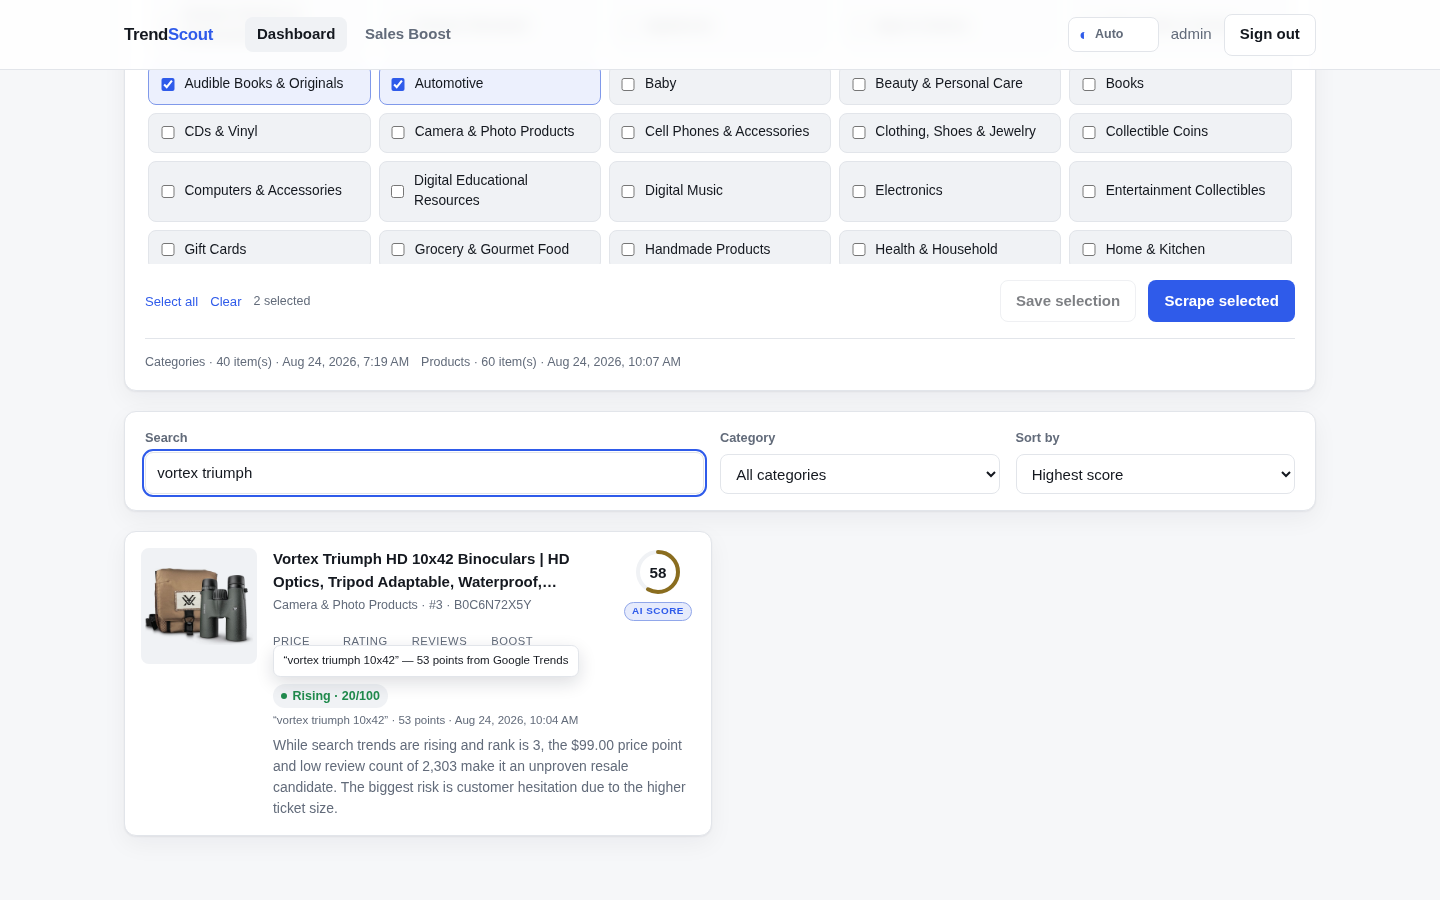
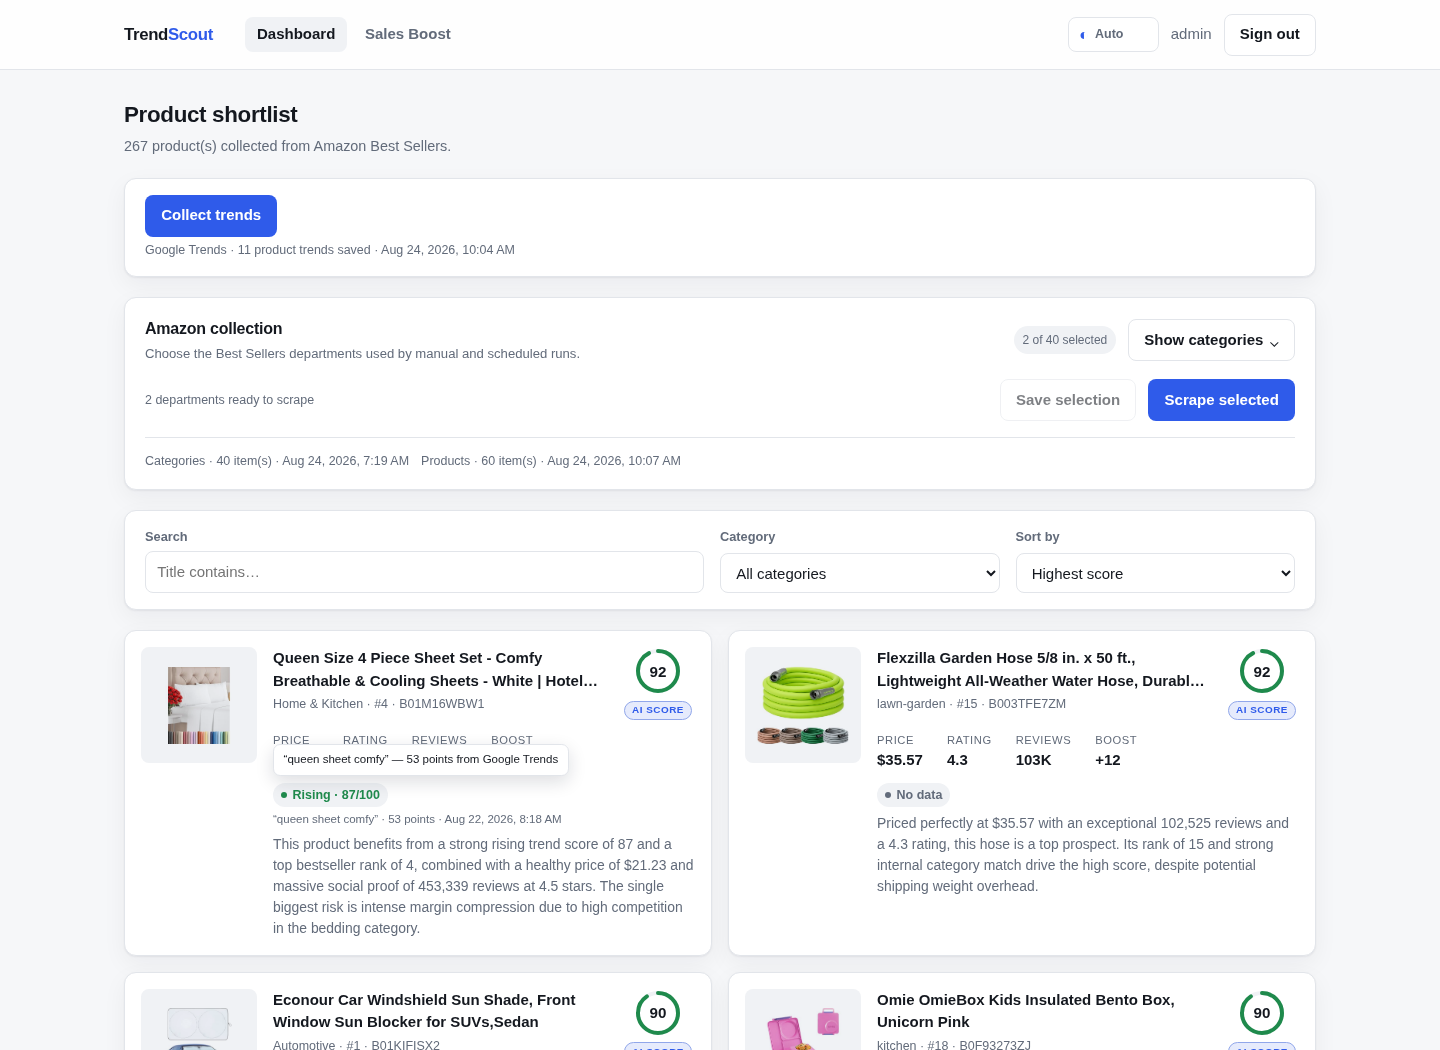
Collapse Amazon category controls
Keep the product shortlist visible by default while preserving category selection, discovery, and scrape actions behind an accessible expandable panel. Refresh the README dashboard screenshot to show the compact overview and collected trend data.

diff --git a/frontend/src/features/products/AmazonCategoryControls.vue b/frontend/src/features/products/AmazonCategoryControls.vue
@@ -22,6 +22,7 @@ const categories = ref<AmazonCategory[]>([]);
 const selected = ref<string[]>([]);
 const loading = ref(true);
 const saving = ref(false);
+const expanded = ref(false);
 const pendingKind = ref<RunKind | null>(null);
 const error = ref("");
 const latestRuns = ref<Run[]>([]);
@@ -150,47 +151,67 @@ void Promise.all([loadCategories(), loadRuns()]);
         <h2>Amazon collection</h2>
         <p class="muted">Choose the Best Sellers departments used by manual and scheduled runs.</p>
       </div>
-      <button
-        class="button button--ghost"
-        type="button"
-        :disabled="browserRunActive || pendingKind !== null || saving"
-        @click="start('categories')"
-      >
-        {{ categories.length ? "Refresh categories" : "Discover categories" }}
-      </button>
+      <div class="amazon-settings__header-actions">
+        <span v-if="!loading && categories.length" class="selection-count">
+          {{ selected.length }} of {{ categories.length }} selected
+        </span>
+        <button
+          class="button button--ghost toggle-button"
+          type="button"
+          :aria-expanded="expanded"
+          aria-controls="amazon-category-panel"
+          @click="expanded = !expanded"
+        >
+          {{ expanded ? "Hide categories" : "Show categories" }}
+          <span class="toggle-button__icon" :data-expanded="expanded" aria-hidden="true">⌄</span>
+        </button>
+      </div>
     </header>
 
-    <p v-if="loading" class="muted amazon-settings__state">Loading categories…</p>
-    <div v-else-if="categories.length" class="category-list">
-      <label v-for="category in categories" :key="category.slug" class="category-option">
-        <input v-model="selected" type="checkbox" :value="category.slug" />
-        <span>{{ category.name }}</span>
-      </label>
+    <div v-if="expanded" id="amazon-category-panel" class="category-panel">
+      <div class="category-panel__toolbar">
+        <div class="selection-actions">
+          <button
+            class="text-button"
+            type="button"
+            :disabled="!categories.length || browserRunActive || pendingKind !== null"
+            @click="selectAll"
+          >
+            Select all
+          </button>
+          <button
+            class="text-button"
+            type="button"
+            :disabled="!selected.length || browserRunActive || pendingKind !== null"
+            @click="selected = []"
+          >
+            Clear
+          </button>
+        </div>
+        <button
+          class="text-button"
+          type="button"
+          :disabled="browserRunActive || pendingKind !== null || saving"
+          @click="start('categories')"
+        >
+          {{ categories.length ? "Refresh from Amazon" : "Discover categories" }}
+        </button>
+      </div>
+
+      <p v-if="loading" class="muted amazon-settings__state">Loading categories…</p>
+      <div v-else-if="categories.length" class="category-list">
+        <label v-for="category in categories" :key="category.slug" class="category-option">
+          <input v-model="selected" type="checkbox" :value="category.slug" />
+          <span>{{ category.name }}</span>
+        </label>
+      </div>
+      <p v-else class="amazon-settings__state muted">
+        Discover the current department list directly from Amazon, then select what to collect.
+      </p>
     </div>
-    <p v-else class="amazon-settings__state muted">
-      Discover the current department list directly from Amazon, then select what to collect.
-    </p>
 
     <footer class="amazon-settings__footer">
-      <div class="selection-actions">
-        <button
-          class="text-button"
-          type="button"
-          :disabled="!categories.length || browserRunActive || pendingKind !== null"
-          @click="selectAll"
-        >
-          Select all
-        </button>
-        <button
-          class="text-button"
-          type="button"
-          :disabled="!selected.length || browserRunActive || pendingKind !== null"
-          @click="selected = []"
-        >
-          Clear
-        </button>
-        <span class="muted">{{ selected.length }} selected</span>
-      </div>
+      <span class="muted footer-selection">{{ selected.length }} departments ready to scrape</span>
       <div class="amazon-settings__buttons">
         <button
           class="button button--ghost"
@@ -229,6 +250,7 @@ void Promise.all([loadCategories(), loadRuns()]);
 
 .amazon-settings__header,
 .amazon-settings__footer,
+.amazon-settings__header-actions,
 .amazon-settings__buttons,
 .selection-actions,
 .run-summary {
@@ -242,6 +264,11 @@ void Promise.all([loadCategories(), loadRuns()]);
   gap: 1rem;
 }
 
+.amazon-settings__header-actions {
+  justify-content: flex-end;
+  gap: 0.75rem;
+}
+
 .amazon-settings__header h2 {
   font-size: 1rem;
 }
@@ -249,6 +276,46 @@ void Promise.all([loadCategories(), loadRuns()]);
 .amazon-settings__header p {
   margin: 0.2rem 0 0;
   font-size: 0.82rem;
+}
+
+.selection-count {
+  padding: 0.3rem 0.55rem;
+  border-radius: 999px;
+  background: var(--surface-muted);
+  color: var(--text-muted);
+  font-size: 0.75rem;
+  white-space: nowrap;
+}
+
+.toggle-button {
+  gap: 0.4rem;
+  white-space: nowrap;
+}
+
+.toggle-button__icon {
+  display: inline-block;
+  font-size: 1rem;
+  line-height: 0.8;
+  transform: rotate(0deg);
+  transition: transform 160ms ease;
+}
+
+.toggle-button__icon[data-expanded="true"] {
+  transform: rotate(180deg);
+}
+
+.category-panel {
+  display: grid;
+  gap: 0.75rem;
+  padding-top: 0.85rem;
+  border-top: 1px solid var(--border);
+}
+
+.category-panel__toolbar {
+  display: flex;
+  align-items: center;
+  justify-content: space-between;
+  gap: 1rem;
 }
 
 .category-list {
@@ -302,8 +369,8 @@ void Promise.all([loadCategories(), loadRuns()]);
   cursor: not-allowed;
 }
 
-.selection-actions span,
-.run-summary {
+.run-summary,
+.footer-selection {
   font-size: 0.78rem;
 }
 
@@ -324,6 +391,15 @@ void Promise.all([loadCategories(), loadRuns()]);
   .amazon-settings__footer {
     align-items: stretch;
     flex-direction: column;
+  }
+
+  .amazon-settings__header-actions,
+  .amazon-settings__buttons {
+    width: 100%;
+  }
+
+  .amazon-settings__header-actions {
+    justify-content: space-between;
   }
 
   .amazon-settings__buttons .button {

diff --git a/README.md b/README.md
@@ -55,8 +55,9 @@ LLM key and uses the deterministic formula automatically.
 
 The dashboard keeps collection controls, filters, score provenance and the
 written rationale together. `AI score` identifies an LLM verdict; `Formula`
-shows that the deterministic fallback produced the result. Trend cards expose
-the query, current relative interest (`0–100`), direction,
+shows that the deterministic fallback produced the result. The Amazon department
+selector stays collapsed until it is needed, keeping the product list in view.
+Trend cards expose the query, current relative interest (`0–100`), direction,
 sample count and collection time. The run status reports how many product trend
 snapshots were saved; it is not an interest score.
 
